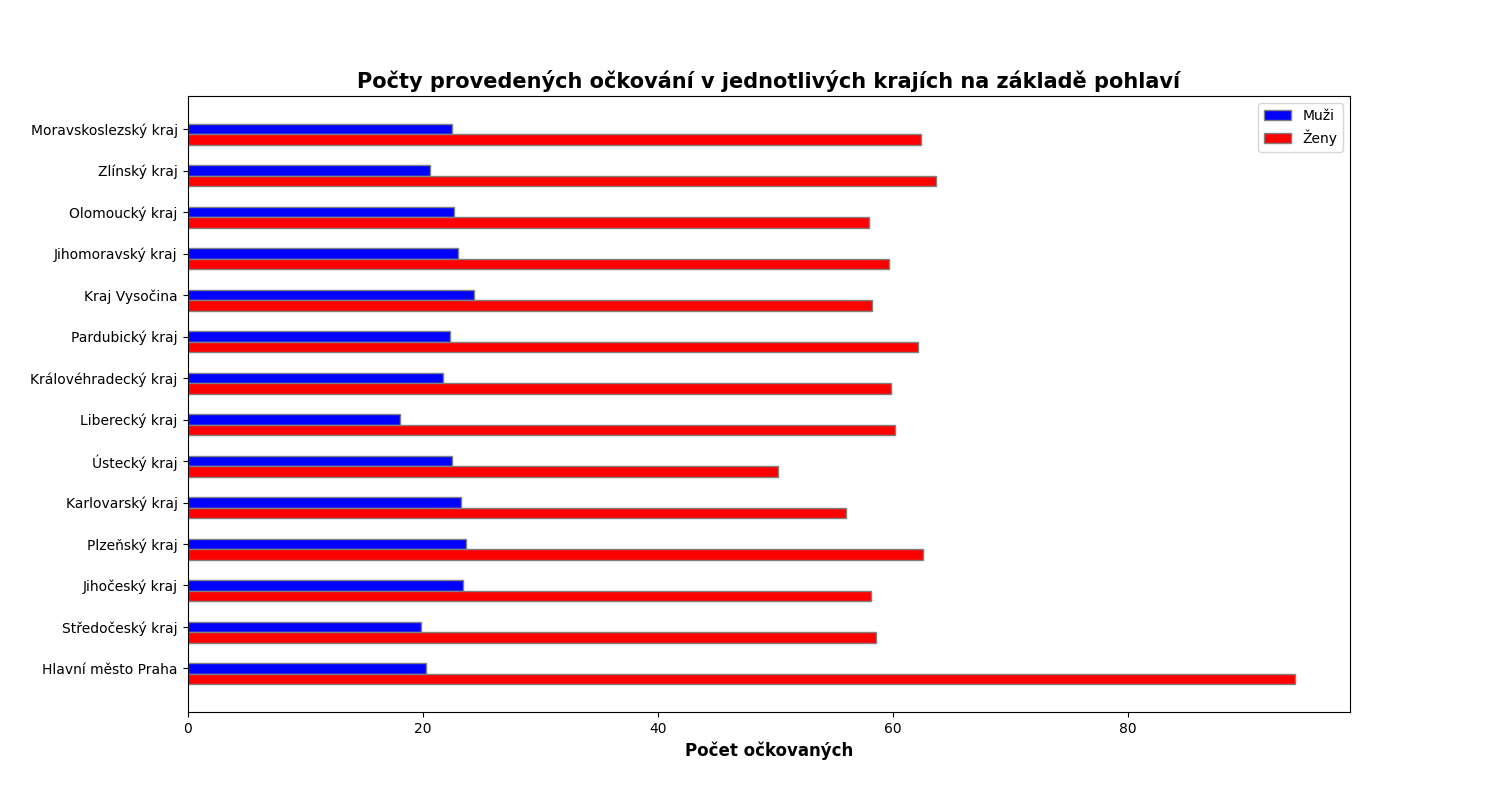
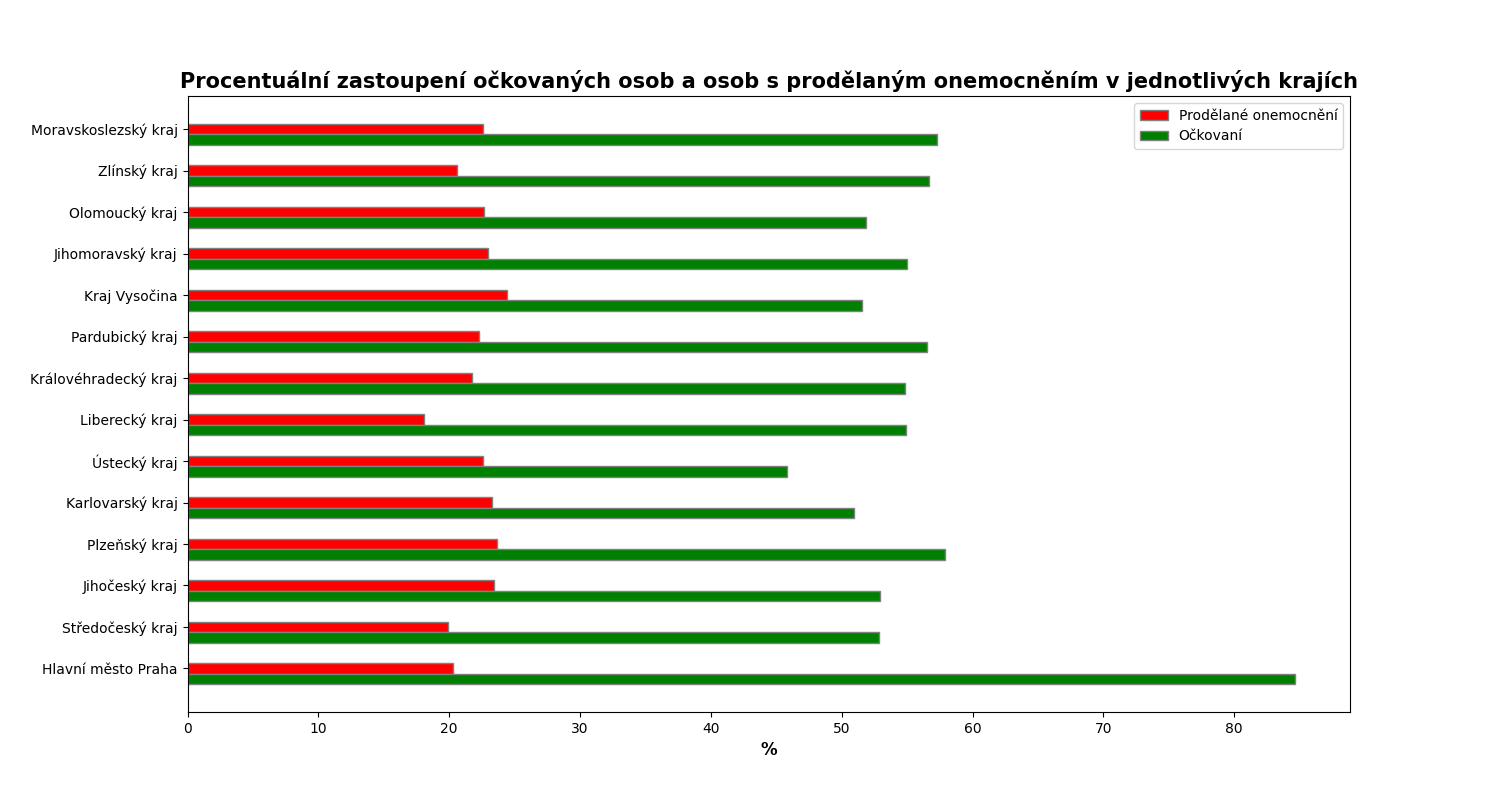
fixed extracting from DB and added one query for comparing persons

diff --git a/src/mongo/queryA.py b/src/mongo/queryA.py
@@ -71,8 +71,8 @@ def initialize_query_A(db: Database):
 
     # read the CSV files
     osoby_nakazeni = pandas.read_csv(os.path.join("data", "osoby.csv"))
-    osoby_ockovani = pandas.read_csv(os.path.join(
-        "data", "ockovani-zakladni-prehled.csv"))
+    osoby_ockovani = pandas.read_csv(os.path.join("data", "ockovani-zakladni-prehled.csv"))
+    ockovani = pandas.read_csv(os.path.join("data", "ockovani.csv"))
     obyvatelstvo = pandas.read_csv(os.path.join("data", "citizen.csv"))
 
     # get numbers of provinces
@@ -86,12 +86,10 @@ def initialize_query_A(db: Database):
         obj = {}
         obj["id"] = kraj
         obj["nazev_kraje"] = nuts_codes[kraj]
-        obj["pocet_obyvatel"] = int(obyvatelstvo.query("vuzemi_kod==" + nuts_codes_citizen[kraj] +
-                                    " & casref_do=='2020-12-31' & vek_kod.isnull() & pohlavi_kod.isnull()")["hodnota"].sum())
-        obj["celkovy_pocet_nakazenych"] = len(
-            osoby_nakazeni.query("kraj_nuts_kod=='" + kraj + "'"))
-        obj["celkovy_pocet_ockovanych"] = int(osoby_ockovani.query(
-            "kraj_nuts_kod == '" + kraj + "' & poradi_davky == 1")["pocet_davek"].sum())
+        obj["pocet_obyvatel"] = int(obyvatelstvo.query("vuzemi_kod==" + nuts_codes_citizen[kraj] + " & casref_do=='2020-12-31' & vek_kod.isnull() & pohlavi_kod.isnull()")["hodnota"].sum())
+        obj["celkovy_pocet_nakazenych"] = len(osoby_nakazeni.query("kraj_nuts_kod=='" + kraj + "'"))
+        obj["celkovy_pocet_ockovanych"] = int(ockovani.query("kraj_nuts_kod == '" + kraj + "' & vakcina == 'Vaccine Janssen'")["prvnich_davek"].sum()) + \
+            int(ockovani.query("kraj_nuts_kod == '" + kraj + "' & vakcina != 'Vaccine Janssen'")["druhych_davek"].sum())
         obj["vekove_skupiny"] = {}
         for skupina in vekove_skupiny:
             obj["vekove_skupiny"][skupina["nazev"]] = {
@@ -112,15 +110,16 @@ def initialize_query_A(db: Database):
 
 def export_A_csvs(db: Database):
     # CSV for age distribution boxplot
-    osoby_nakazeni = pandas.read_csv(os.path.join("data", "osoby.csv"))
-    p = osoby_nakazeni.drop(osoby_nakazeni.columns[[1, 3, 5, 6, 7, 8]], axis=1)
-    p.to_csv(os.path.join(CSV_FOLDER_NAME, "queryA_1.csv"))
+    c = db["osoby"].find({})
+    df = pandas.DataFrame(c)
+    dff = df.drop(df.columns[[0, 2, 4, 6, 7, 8, 9]], axis=1)
+    dff.to_csv(os.path.join(CSV_FOLDER_NAME, "queryA_1.csv"), index=False)
 
     # CSV for plotting vaccinated data
-    osoby_ockovani = pandas.read_csv(os.path.join("data", "ockovani-zakladni-prehled.csv"))
+    o = db["ockovani-zakladni-prehled"].find({})
+    osoby_ockovani = pandas.DataFrame(o)
 
     ids = []
-    names = []
     vaccinated_total = []
     vaccinated_man = []
     vaccinated_woman = []
@@ -132,13 +131,11 @@ def export_A_csvs(db: Database):
     vaccinated_woman_59_ = []
 
     for region in nuts_codes:
-        unique_persons = osoby_ockovani.query(
-            "kraj_nuts_kod == '" + region + "' & poradi_davky == 1")
+        unique_persons = osoby_ockovani.query("kraj_nuts_kod == '" + region + "' & ((vakcina == 'Vaccine Janssen' & poradi_davky == 1) | (vakcina != 'Vaccine Janssen' & poradi_davky == 2))")
         man = unique_persons.query("pohlavi == 'M'")
         woman = unique_persons.query("pohlavi == 'Z'")
 
         ids.append(region)
-        names.append(nuts_codes[region])
         vaccinated_total.append(int(unique_persons["pocet_davek"].sum()))
         vaccinated_man.append(int(man["pocet_davek"].sum()))
         vaccinated_woman.append(int(woman["pocet_davek"].sum()))
@@ -157,7 +154,6 @@ def export_A_csvs(db: Database):
 
     df = pandas.DataFrame({
         "id": ids,
-        "name": names,
         "vaccinated_total": vaccinated_total,
         "vaccinated_men": vaccinated_man,
         "vaccinated_woman": vaccinated_woman,
@@ -168,14 +164,14 @@ def export_A_csvs(db: Database):
         "vaccinated_woman_24": vaccinated_woman_24_59,
         "vaccinated_woman_59": vaccinated_woman_59_,
     })
-    df.to_csv(os.path.join("queries_csv", "queryA_2.csv"))
+    df.to_csv(os.path.join(CSV_FOLDER_NAME, "queryA_2.csv"), index=False)
 
     # CSV for infected/vaccinated comparision
+    col = db[COLLECTION_NAME]
     ids = []
     population = []
     infected = []
     vaccinated = []
-    col = db[COLLECTION_NAME]
     for obj in col.find({}):
         ids.append(obj["id"])
         population.append(obj["pocet_obyvatel"])
@@ -188,7 +184,7 @@ def export_A_csvs(db: Database):
         "infected": infected,
         "vaccinated": vaccinated,
     })
-    df_2.to_csv(os.path.join(CSV_FOLDER_NAME, "query_comparision.csv"))
+    df_2.to_csv(os.path.join(CSV_FOLDER_NAME, "query_comparision.csv"), index=False)
 
 
 def plot_queries_A_boxplot():
@@ -307,13 +303,13 @@ def plot_queries_comparision():
     br1 = np.arange(len(data_i))
     br2 = [x + barWidth for x in br1]
 
-    plt.barh(br2, data_i, color='b', height=barWidth, edgecolor='grey', label='Muži')
-    plt.barh(br1, data_v, color='r', height=barWidth, edgecolor='grey', label='Ženy')
+    plt.barh(br2, data_i, color='r', height=barWidth, edgecolor='grey', label='Prodělané onemocnění')
+    plt.barh(br1, data_v, color='g', height=barWidth, edgecolor='grey', label='Očkovaní')
 
-    plt.xlabel('Počet očkovaných', fontweight='bold', fontsize=12)
+    plt.xlabel('%', fontweight='bold', fontsize=12)
     plt.yticks([r + barWidth for r in range(len(data_i))], list(nuts_codes.values()))
 
-    plt.title("Počty provedených očkování v jednotlivých krajích na základě pohlaví", fontweight='bold', fontsize=15)
+    plt.title("Procentuální zastoupení očkovaných osob a osob s prodělaným onemocněním v jednotlivých krajích", fontweight='bold', fontsize=15)
     plt.legend()
 
     plt.savefig(os.path.join(DIAGRAMS_FOLDER_NAME, "query_comparision.png"))

diff --git a/src/mongo/mongo.py b/src/mongo/mongo.py
@@ -1,27 +1,30 @@
 from pymongo import MongoClient
-import os, json, pandas
+import os
+import json
+import pandas
 from pymongo.database import Database
 
 
-#array of csv files, which will be imported to mongodb
-csv_collection_names = ["orp",
-                        "obce"]
+# array of csv files, which will be imported to mongodb
+csv_collection_names = ["osoby", "ockovani-zakladni-prehled"]
 
-def import_csv_data(db : Database):
+
+def import_csv_data(db: Database):
 
     list_of_col = db.list_collection_names()
-    #if db contains collections, drop them
+    # if db contains collections, drop them
     if(list_of_col != 0):
         for col in list_of_col:
             db.drop_collection(col)
 
     for col_name in csv_collection_names:
-        #create collections 
+        # create collections
         mycol = db[col_name]
-        #insert data 
+        # insert data
         data = pandas.read_csv(os.path.join("data", col_name + ".csv"))
         payload = json.loads(data.to_json(orient='records'))
         mycol.insert(payload)
+
 
 def initialize_mongo():
     """Creates new instance of Mongo database and returns it.
@@ -37,7 +40,7 @@ def import_collection(db: Database, collection_name, data):
     Does nothing when db is null or name is empty.
     """
 
-    if db is None or collection_name == "" :
+    if db is None or collection_name == "":
         return
 
     if collection_name in db.list_collection_names():

diff --git a/src/plot.py b/src/plot.py
@@ -1,4 +1,4 @@
-from mongo.queryA import plot_queries_A_boxplot, plot_queries_A_vaccinations_1, plot_queries_A_vaccinations_2, plot_queries_A_vaccinations_3
+from mongo.queryA import plot_queries_A_boxplot, plot_queries_A_vaccinations_1, plot_queries_A_vaccinations_2, plot_queries_A_vaccinations_3, plot_queries_comparision
 
 
 def main():
@@ -7,6 +7,9 @@ def main():
     plot_queries_A_vaccinations_1()
     plot_queries_A_vaccinations_2()
     plot_queries_A_vaccinations_3()
+
+    print("Plotting comparision diagram")
+    plot_queries_comparision()
 
 
 if __name__ == "__main__":
